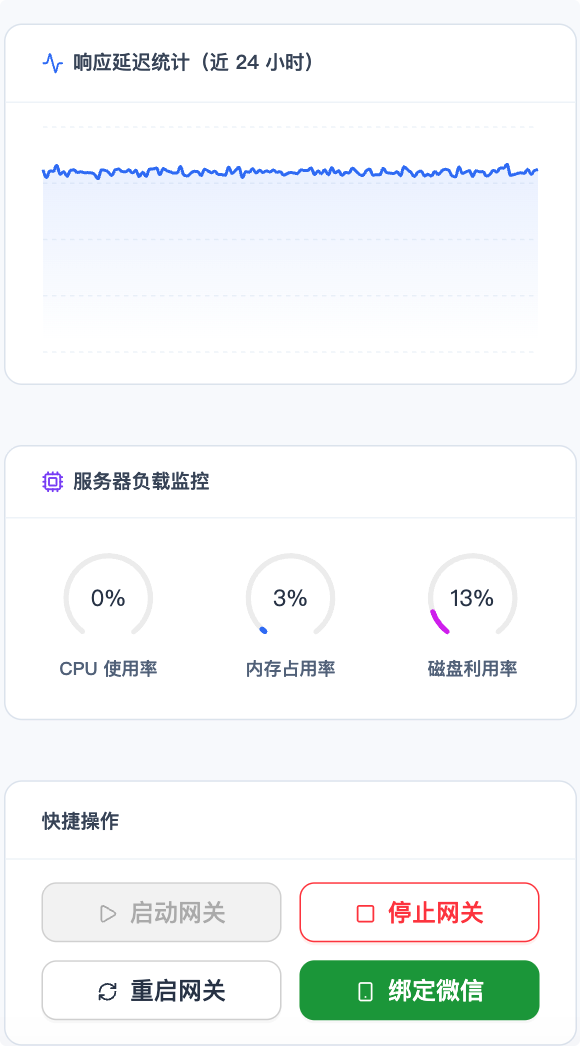
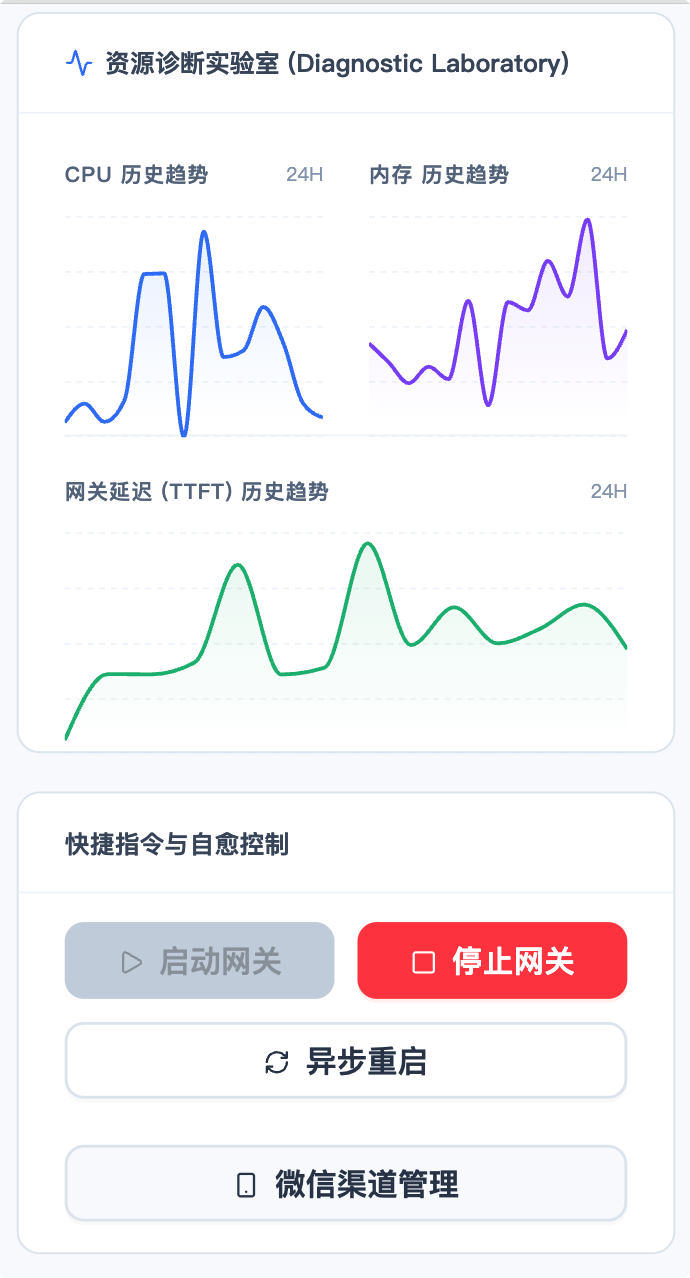
feat: 构建发布脚本版本号自动同步至 UI

diff --git a/web/src/App.tsx b/web/src/App.tsx
@@ -913,21 +913,6 @@ export default function App() {
         },
       },
     }}>
-      <style>{`
-        .ant-modal-content, .ant-drawer-content {
-          backdrop-filter: blur(12px) !important;
-          background: rgba(255, 255, 255, 0.75) !important;
-          border: 1px solid rgba(255, 255, 255, 0.3) !important;
-          box-shadow: 0 10px 40px -10px rgba(0, 0, 0, 0.1) !important;
-        }
-        .ant-modal-header, .ant-modal-footer {
-          background: transparent !important;
-        }
-        .ant-drawer-header {
-           background: transparent !important;
-           border-bottom: 1px solid rgba(0, 0, 0, 0.05) !important;
-        }
-      `}</style>
       {token ? <Dashboard /> : <LoginView onLoginSuccess={setToken} />}
     </ConfigProvider>
   );

diff --git a/web/src/version.ts b/web/src/version.ts
@@ -1,1 +1,1 @@
-export const APP_VERSION = '1.0.0';
+export const APP_VERSION = '1.0.1';
